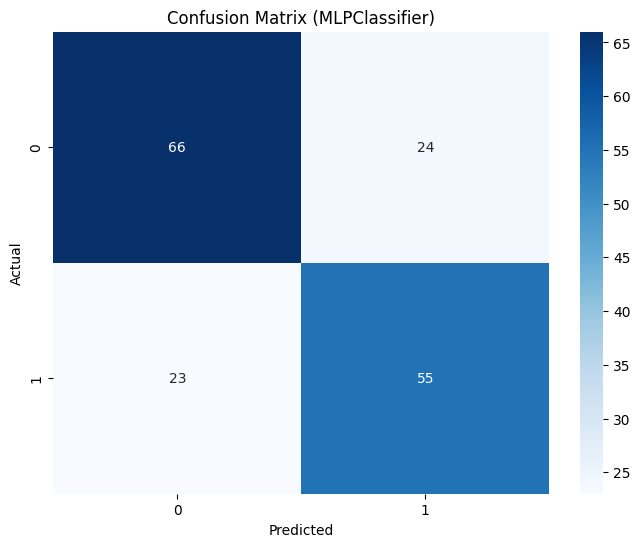
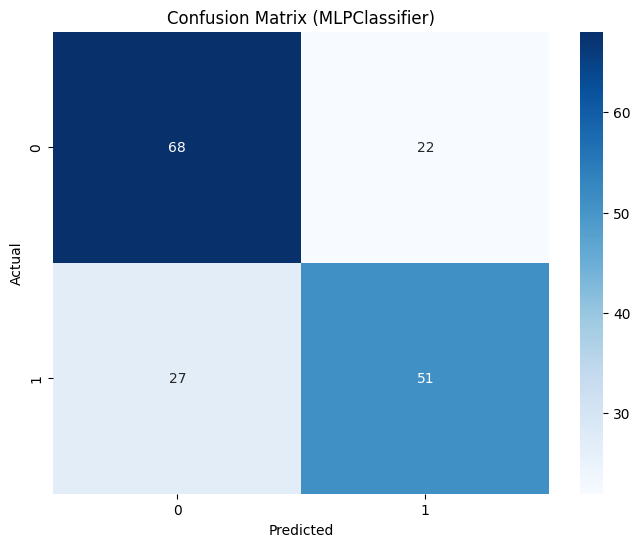
pngs and stuff:

diff --git a/classification/src/classification.py b/classification/src/classification.py
@@ -1,4 +1,5 @@
 from performance import *
+import numpy as np
 
 
 def performCA(func, feat_train, feat_test, ytrain, ytest, **kwargs):
@@ -26,3 +27,22 @@ def performCA(func, feat_train, feat_test, ytrain, ytest, **kwargs):
     
 
 ## separate function for ClusWiSARD
+def performCA_cluswisard(func, feat_train, feat_test, ytrain, ytest, **kwargs):
+    """
+    Performs classification and evaluation specifically for ClusWiSARD.
+    """
+    model = func(feat_train, ytrain, **kwargs)
+
+    # Predict using ClusWiSARD
+    ypred = model.classify(feat_test)
+
+    # ClusWiSARD doesn't support probabilities -> use dummy values for AUROC
+    # We'll use 1 for predicted class 1 and 0 for class 0
+    yprob = np.array(ypred, dtype=float)
+
+    # Get metrics (robust to missing probability info)
+    metrics = get_metrics(ytest, ypred, yprob)
+
+    clf_name = model.__class__.__name__
+    plot_confusion_matrix(ytest, ypred, model)
+    print_metrics(metrics, clf_name)
